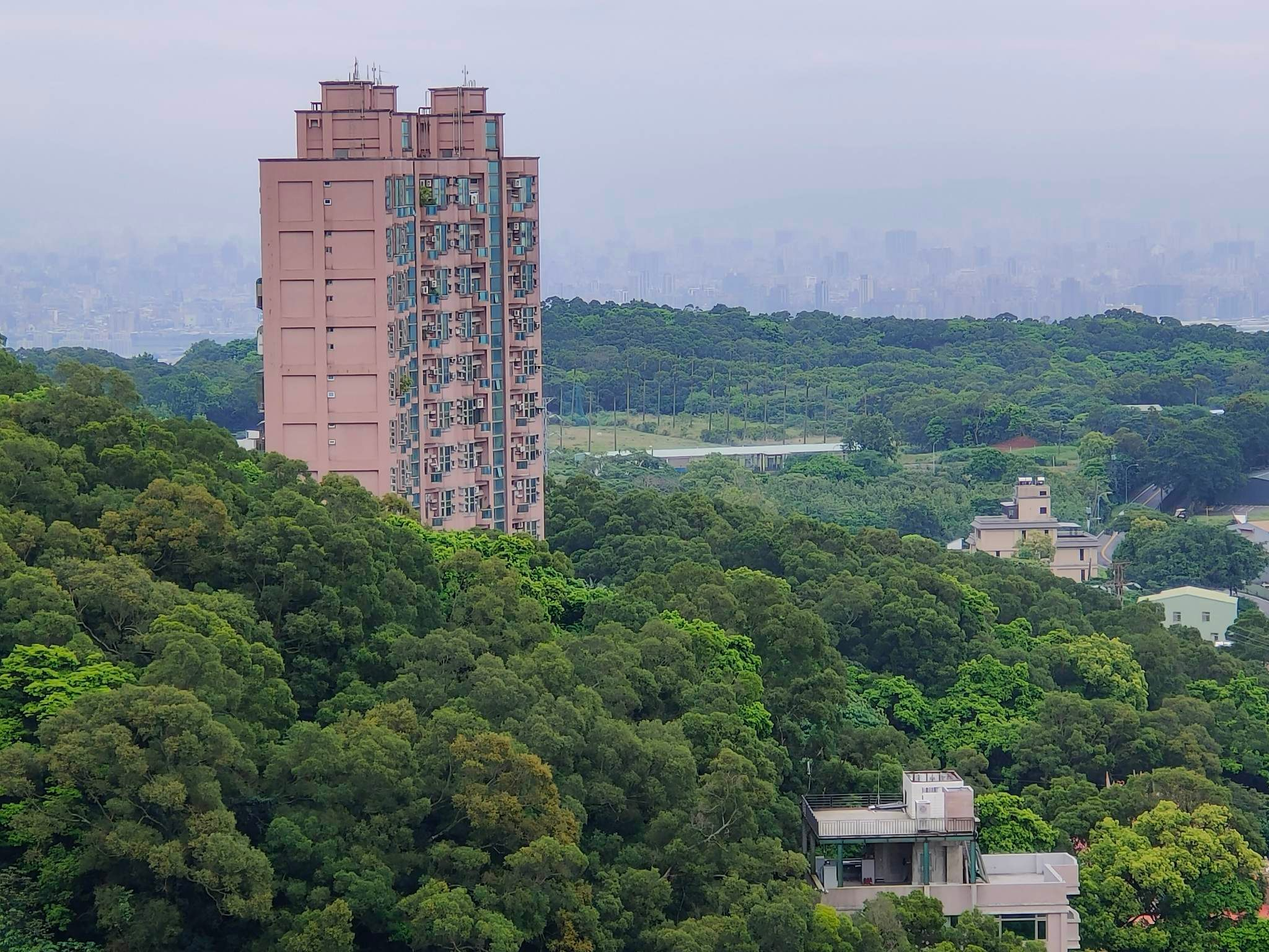
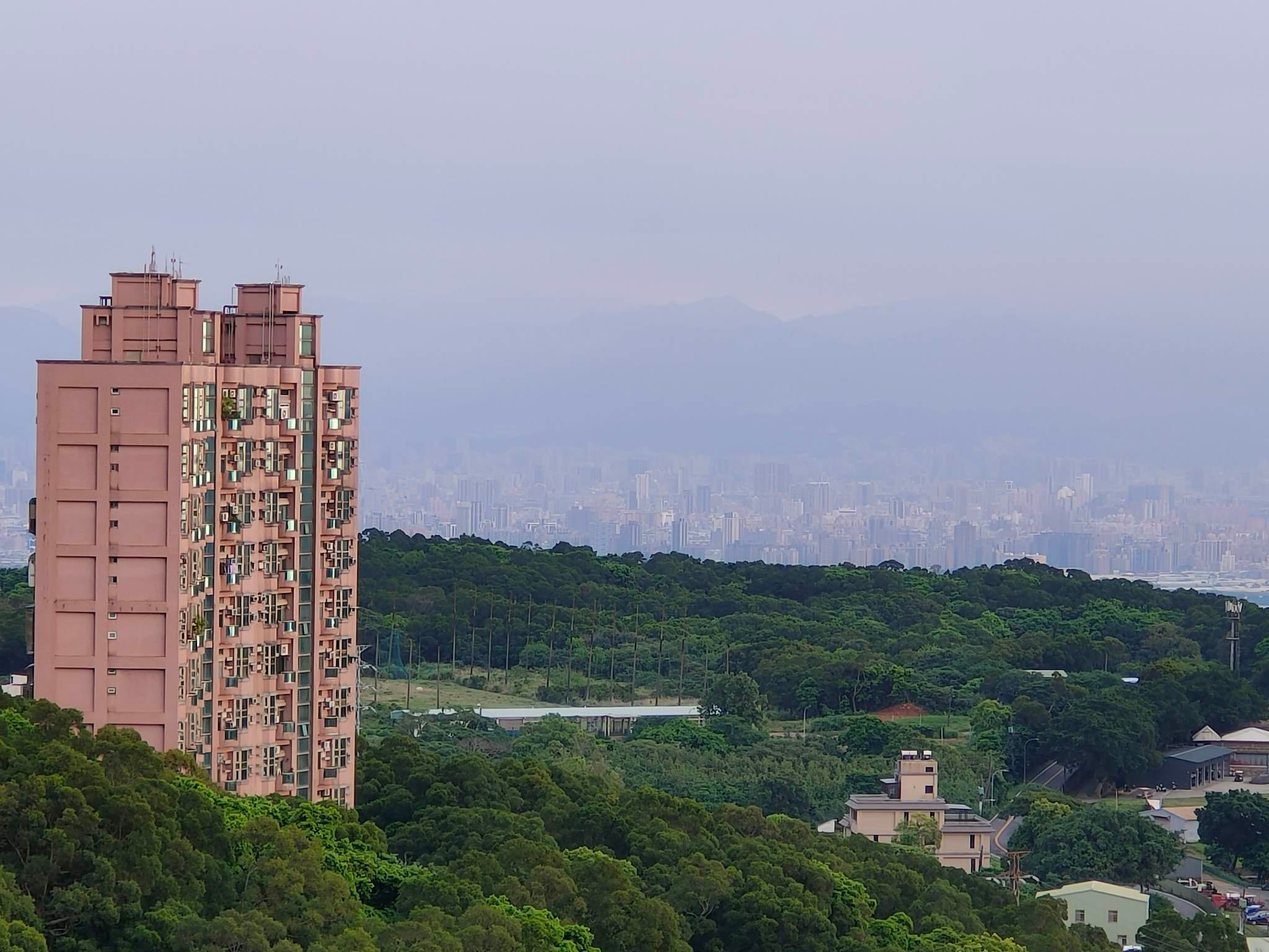
warp and blending fixed

diff --git a/hw2.py b/hw2.py
@@ -211,7 +211,7 @@ def get_MSOP_descripters(src_img, feature_pos, Ix, Iy):
         patch_40 = get_patches(rotated_img, pos)
         # if i == 0:
         #     cv2.imwrite(f'results/40_test.png', patch_40)
-        gauss_patch_40 = gaussian_filter(patch_40, sigma=4.5) # sigma = 4.5?
+        gauss_patch_40 = gaussian_filter(patch_40, sigma=1) # sigma = 4.5?
         patch_8 = cv2.resize(gauss_patch_40, (8, 8))
         # if i == 0:
         #     cv2.imwrite(f'results/8_test.png', patch_8)
@@ -252,11 +252,24 @@ def match_feature(desc_right, desc_left, thresh_hold = 0.8):
 # matched_indexes = match_feature(desc_right_list1, desc_left_list2)
 # print(matched_indexes)
 # print(len(matched_indexes))
+def warp_feature(h, w, desc_list, focal=1800):
+    y_origin = h // 2
+    x_origin = w // 2
+    numm_descs = len(desc_list)
+    for i in range(numm_descs):
+        print("original", desc_list[i]["coordinate"])
+        x_prime = math.atan(((desc_list[i]["coordinate"][1] - x_origin) / focal)) * focal + x_origin
+        y_prime =  focal * (desc_list[i]["coordinate"][0] - y_origin) /\
+        math.sqrt((desc_list[i]["coordinate"][1] - x_origin)**2 + focal**2)+ y_origin
+        desc_list[i]["coordinate"] = (round(y_prime), round(x_prime))
+        print("after", (round(y_prime), round(x_prime)))
+    return
+ransac_list = []
 def ransac(desc_right, desc_left, matched_indexes):
     max_inlier = 0
     shift_xy = []
     for i in range(100000):
-        num_chosen = 2
+        num_chosen = 1
         chosen = random.sample(matched_indexes, k=num_chosen)
         # if i == 0:
         #     print("chosen", chosen)
@@ -269,17 +282,26 @@ def ransac(desc_right, desc_left, matched_indexes):
         curr_shift[1] /= num_chosen
         # print(curr_shift)
         curr_inlier = 0
-        for i, j in matched_indexes:
+        choosed = []
+        for g, h in matched_indexes:
             # print(i, j)
-            if [i, j] not in chosen:
-                other_shift = [desc_right[i]["coordinate"][0] - desc_left[j]["coordinate"][0], \
-                               desc_right[i]["coordinate"][1] - desc_left[j]["coordinate"][1]]
-                if abs(curr_shift[0] - other_shift[0]) < 8 and abs(curr_shift[1] - other_shift[1]) < 8:
+            if [g, h] not in chosen:
+                other_shift = [desc_right[g]["coordinate"][0] - desc_left[h]["coordinate"][0], \
+                               desc_right[g]["coordinate"][1] - desc_left[h]["coordinate"][1]]
+                if abs(curr_shift[0] - other_shift[0]) < 4 and abs(curr_shift[1] - other_shift[1]) < 4:
                     curr_inlier += 1
+                    choosed.append([g, h])
         # print(curr_inlier)
         if max_inlier < curr_inlier:
             max_inlier = curr_inlier
+            for g, h in choosed:
+                curr_shift[0] += desc_right[g]["coordinate"][0] - desc_left[h]["coordinate"][0]
+                curr_shift[1] += desc_right[g]["coordinate"][1] - desc_left[h]["coordinate"][1]
+            curr_shift[0] /= (max_inlier + 1)
+            curr_shift[1] /= (max_inlier + 1)
             shift_xy = curr_shift
+            global ransac_list
+            ransac_list = choosed
             # print(curr_shift)
     # print(shift_xy)
     shift_xy[0] = round(shift_xy[0])
@@ -329,16 +351,57 @@ def image_stitching(stitching_space, images, all_shifts):
             elif (images[i + 1][h // 2, (j - cumulated_shifts[1]), 1] == 0):
                 pass
             else:
+                # if (stitching_space[start_row:end_row, (j - 1), :].shape != images[i + 1][im_start_row:, (j - cumulated_shifts[1]), :].shape):
                 stitching_space[start_row:end_row, (j - 1), :] = \
-                stitching_space[start_row:end_row, (j - 1), :] / overlapped_col * left_part \
-                +images[i + 1][im_start_row:, (j - cumulated_shifts[1]), :] / overlapped_col * right_part 
+                stitching_space[start_row:end_row, (j - 1), :]  / overlapped_col * left_part + \
+                images[i + 1][im_start_row:, (j - cumulated_shifts[1]), :] / overlapped_col * right_part
             left_part -= 1
             right_part += 1
         stitching_space[start_row:end_row, cumulated_w-1:w+cumulated_shifts[1], :] = \
         images[i + 1][im_start_row:, (cumulated_w - cumulated_shifts[1] - 1):, :]
         cumulated_h += all_shifts[i][0]
         cumulated_w += all_shifts[i][1]
-        print("end 1")
+        print(f"end {i}")
+    return stitching_space.astype(np.uint8)
+
+def image_stitching2(stitching_space, images, all_shifts):
+    cumulated_shifts = [0, 0]
+    cumulated_h, cumulated_w, temp_c = images[0].shape
+    num_images = len(images)
+    stitching_space[:images[0].shape[0], :images[0].shape[1],:] = images[0]
+    for i in range(num_images - 1):
+        # print(i)
+        cumulated_shifts[0] = cumulated_shifts[0] + all_shifts[i][0]
+        cumulated_shifts[1] = cumulated_shifts[1] + all_shifts[i][1]
+        overlapped_col = cumulated_w - cumulated_shifts[1]
+        left_part = overlapped_col - 1
+        right_part = 1 
+        h, w, c = images[i + 1].shape
+        if cumulated_shifts[0] >= 0:
+            start_row = cumulated_shifts[0]  
+            end_row = h + start_row
+        else:
+            start_row = 0
+            end_row = h + cumulated_shifts[0]
+
+        if cumulated_shifts[0] >= 0:
+            im_start_row = 0
+        else:
+            im_start_row = -cumulated_shifts[0]
+        
+        for j in range(cumulated_shifts[1], cumulated_w):
+            if (j > (cumulated_shifts[1] + cumulated_w) / 2):
+                stitching_space[start_row:end_row, (j - 1), :] = images[i + 1][im_start_row:, (j - cumulated_shifts[1]), :]
+            # else:
+            #     stitching_space[start_row:end_row, (j - 1), :] = \
+            #     stitching_space[start_row:end_row, (j - 1), :]
+            left_part -= 1
+            right_part += 1
+        stitching_space[start_row:end_row, cumulated_w-1:w+cumulated_shifts[1], :] = \
+        images[i + 1][im_start_row:, (cumulated_w - cumulated_shifts[1] - 1):, :]
+        cumulated_h += all_shifts[i][0]
+        cumulated_w += all_shifts[i][1]
+        print(f"end {i}")
     return stitching_space.astype(np.uint8)
 
 # all_shifts = []
@@ -356,9 +419,9 @@ bgr1 = cv2.imread(f"{filename1}.jpg")
 bgr2 = cv2.imread(f"{filename2}.jpg")
 bgr3 = cv2.imread(f"{filename3}.jpg")
 
-warp_1 = cylinder_warping2(bgr1, filename1, focal=3086) 
-warp_2 = cylinder_warping2(bgr2, filename2, focal=3083) 
-warp_3 = cylinder_warping2(bgr3, filename3, focal=3087)
+warp_1 = cylinder_warping2(bgr1, filename1, focal=3085.73) # 776.419
+warp_2 = cylinder_warping2(bgr2, filename2, focal=3082.65) # 776.035
+warp_3 = cylinder_warping2(bgr3, filename3, focal=3087.25) # 777.776
 
 cv2.imwrite(f'results/{filename1}_wrap_test.png', warp_1)
 cv2.imwrite(f'results/{filename2}_wrap_test.png', warp_2)
@@ -408,11 +471,11 @@ fpts3 = find_local_max_R(R3)
 # h1, w1 = gray1.shape
 # h2, w2 = gray2.shape
 
-# img_fps1 = np.copy(gray1)
+# img_fps1 = np.copy(bgr1)
 # for i in range(len(fpts1[0])):
 #     cv2.circle(img_fps1, (fpts1[1][i], fpts1[0][i]), radius=1, color=[0, 0, 255], thickness=1, lineType=1)
 
-# img_arrows1 = np.copy(gray1)
+# img_arrows1 = np.copy(bgr1)
     
 # for i in range(len(fpts1[0])):
 #     x = fpts1[1][i]
@@ -424,11 +487,11 @@ fpts3 = find_local_max_R(R3)
 # cv2.imwrite(f'results/{filename1}_fps.png', img_fps1)
 # cv2.imwrite(f'results/{filename1}_arrows.png', img_arrows1)
 
-# img_fps2 = np.copy(gray2)
+# img_fps2 = np.copy(bgr2)
 # for i in range(len(fpts2[0])):
 #     cv2.circle(img_fps2, (fpts2[1][i], fpts2[0][i]), radius=1, color=[0, 0, 255], thickness=1, lineType=1)
 
-# img_arrows2 = np.copy(gray2)
+# img_arrows2 = np.copy(bgr2)
     
 # for i in range(len(fpts2[0])):
 #     x = fpts2[1][i]
@@ -447,25 +510,53 @@ desc_left_list1, desc_right_list1 = get_MSOP_descripters(bgr1, fpts1, Ix1, Iy1)
 desc_left_list2, desc_right_list2 = get_MSOP_descripters(bgr2, fpts2, Ix2, Iy2)
 desc_left_list3, desc_right_list3 = get_MSOP_descripters(bgr3, fpts3, Ix3, Iy3)
 
-match_feature12 = match_feature(desc_right_list1, desc_left_list2)
-match_feature23 = match_feature(desc_right_list2, desc_left_list3)
+# desc_left_list1, desc_right_list1 = get_MSOP_descripters(warp_1, fpts1, Ix1, Iy1)
+# desc_left_list2, desc_right_list2 = get_MSOP_descripters(warp_2, fpts2, Ix2, Iy2)
+# desc_left_list3, desc_right_list3 = get_MSOP_descripters(warp_3, fpts3, Ix3, Iy3)
 
-print(match_feature12)
-print(match_feature23)
+test_height = bgr1.shape[0]
+test_width = bgr1.shape[1]
+warp_feature(test_height, test_width, desc_left_list1, focal=3085.73)
+warp_feature(test_height, test_width, desc_left_list2, focal=3082.65)
+warp_feature(test_height, test_width, desc_left_list3, focal=3087.25)
+warp_feature(test_height, test_width, desc_right_list1, focal=3085.73)
+warp_feature(test_height, test_width, desc_right_list2, focal=3082.65)
+warp_feature(test_height, test_width, desc_right_list3, focal=3087.25)
 
+match_feature12 = match_feature(desc_right_list1, desc_left_list2, thresh_hold=1)
 all_shifts = []
 all_shifts.append(ransac(desc_right_list1, desc_left_list2, match_feature12))
+###########################################
+img_fps1 = np.copy(warp_1)
+for i in ransac_list:
+    cv2.circle(img_fps1, (desc_right_list1[i[0]]["coordinate"][1], desc_right_list1[i[0]]["coordinate"][0]), radius=5, color=[0, 0, 255], thickness=1, lineType=1)
+cv2.imwrite(f'results/see/{filename1}_fps.png', img_fps1)
+
+img_fps2 = np.copy(warp_2)
+for i in ransac_list:
+    cv2.circle(img_fps2, (desc_left_list2[i[1]]["coordinate"][1], desc_left_list2[i[1]]["coordinate"][0]), radius=5, color=[0, 0, 255], thickness=1, lineType=1)
+cv2.imwrite(f'results/see/{filename2}_fps.png', img_fps2)
+###########################################
+print("len_ransac", len(ransac_list))
+match_feature23 = match_feature(desc_right_list2, desc_left_list3, thresh_hold=1)
 all_shifts.append(ransac(desc_right_list2, desc_left_list3, match_feature23))
+
+# print(match_feature12)
+# print(match_feature23)
+
 
 print(all_shifts)
 
-total_shifts = [0, 0]
+max_shifts = [0, 0]
 for i, j in all_shifts:
-    total_shifts[0] += i
-    total_shifts[1] += j
-print(total_shifts)
-stitching_space = init_stitching_space([warp_1, warp_2, warp_3], total_shifts)
-stitched = image_stitching(stitching_space, [warp_1, warp_2, warp_3], all_shifts)
+    max_shifts[0] += max(max_shifts[0], i)
+    max_shifts[1] += max(max_shifts[1], j)
+print(max_shifts)
+# stitching_space = init_stitching_space([warp_1, warp_2, warp_3], max_shifts)
+# stitched = image_stitching(stitching_space, [warp_1, warp_2, warp_3], all_shifts)
+stitching_space = init_stitching_space([bgr1, bgr2, bgr3], max_shifts)
+stitched = image_stitching2(stitching_space, [warp_1, warp_2, warp_3], all_shifts)
+
 cv2.imwrite(f'results/stitched_test.png', stitched)
 
 def bundle_adjustment(stitched):
